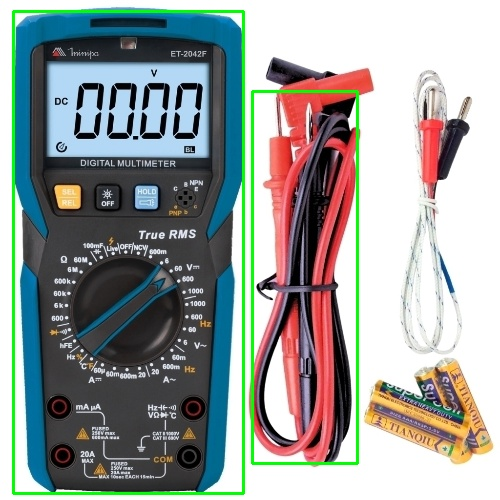
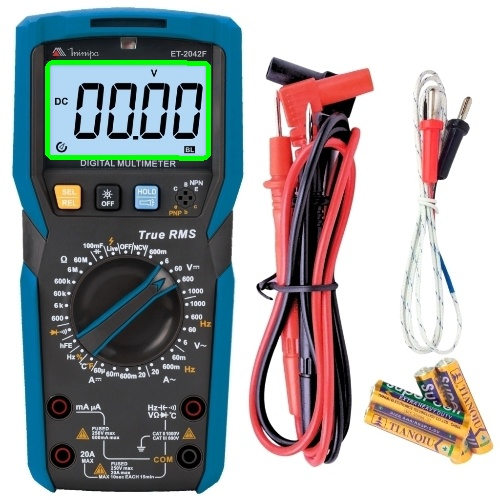
feat: identificação de display (imagem amostral)

Changed region(s): [[0.0, 0.0, 0.72, 1.0], [0.09, 0.12, 0.45, 0.33]]

diff --git a/display.py b/display.py
@@ -1,0 +1,43 @@
+import cv2 as cv
+import numpy as np
+import binarizar
+
+img_dir = binarizar.img_dir
+img = binarizar.img
+binary_img = binarizar.thresh
+
+# Filtrar contornos através de uma aréa mínima para evitar pequenos ruídos
+target_area = 162 * 97 # Número literal. Valores mais adequados precisam ser encontrados.
+for cnt in binarizar.contours:
+  area = cv.contourArea(cnt)
+  # Verifica se a area do contorno está dentro das tolerâncias
+  if area > target_area * 0.7 and area < target_area * 1.3:
+      # Tenta aproximar o perimetro do contorno a um retângulo
+      perimeter = cv.arcLength(cnt, True)
+      approx = cv.approxPolyDP(cnt, 0.02 * perimeter, True)
+
+      # Verifica se o contorno aproximado possui 
+      if len(approx) == 4 and cv.isContourConvex(approx):
+        angles = []
+        for i in range(4):
+          p1 = approx[i][0]
+          p2 = approx[(i + 1) % 4][0]
+          p3 = approx[(i + 2) % 4][0]
+
+          v1 = p1 - p2
+          v2 = p3 - p2
+          cos_angle = np.dot(v1, v2) / (np.linalg.norm(v1) * np.linalg.norm(v2))
+          angle = np.degrees(np.arccos(cos_angle))
+          angles.append(angle)
+
+          if all(a >= 85 and a <= 95 for a in angles):
+            cv.drawContours(img, [cnt], 0, (0, 255, 0), 3)
+
+cv.imshow("Imagem binarizada", binary_img)
+cv.imshow("Imagem com contorno", img)
+k = cv.waitKey(0)
+
+if chr(k) == 's':
+  path = f'{img_dir}\\multimetro_demarcado.jpg'
+  cv.imwrite(f'{img_dir}\\multimetro_demarcado.jpg', img)
+  print(f'Imagem guardada em: {path}'.replace('.\\', ''))

diff --git a/binarizar.py b/binarizar.py
@@ -1,4 +1,5 @@
 import cv2 as cv
+import numpy as np
 
 # Carregar e redimensionar imagem
 img_dir = r'.\img'
@@ -13,19 +14,4 @@ blurred_img = cv.GaussianBlur(gray_img, (3, 3), 0)
 _, thresh = cv.threshold(blurred_img, 120, 255, cv.THRESH_BINARY_INV)
 
 # Encontrar contornos
-contours, _ = cv.findContours(thresh, cv.RETR_EXTERNAL, cv.CHAIN_APPROX_SIMPLE)
-
-# Filtrar contornos através de uma aréa mínima para evitar pequenos ruídos (carece de ajustes)
-for cnt in contours:
-  area = cv.contourArea(cnt)
-  if area > 100 * 50:
-      x, y, w, h = cv.boundingRect(cnt)
-      cv.rectangle(img, (x, y), (x + w, y + h), (0, 255, 0), 2)
-
-cv.imshow("Imagem binarizada", thresh)
-cv.imshow("Imagem com contorno", img)
-k = cv.waitKey(0)
-
-if chr(k) == 's':
-  cv.imwrite(f'{img_dir}\\multimetro_binario.jpg', thresh)
-  cv.imwrite(f'{img_dir}\\multimetro_demarcado.jpg', img)
+contours, _ = cv.findContours(thresh, cv.RETR_LIST, cv.CHAIN_APPROX_SIMPLE)
